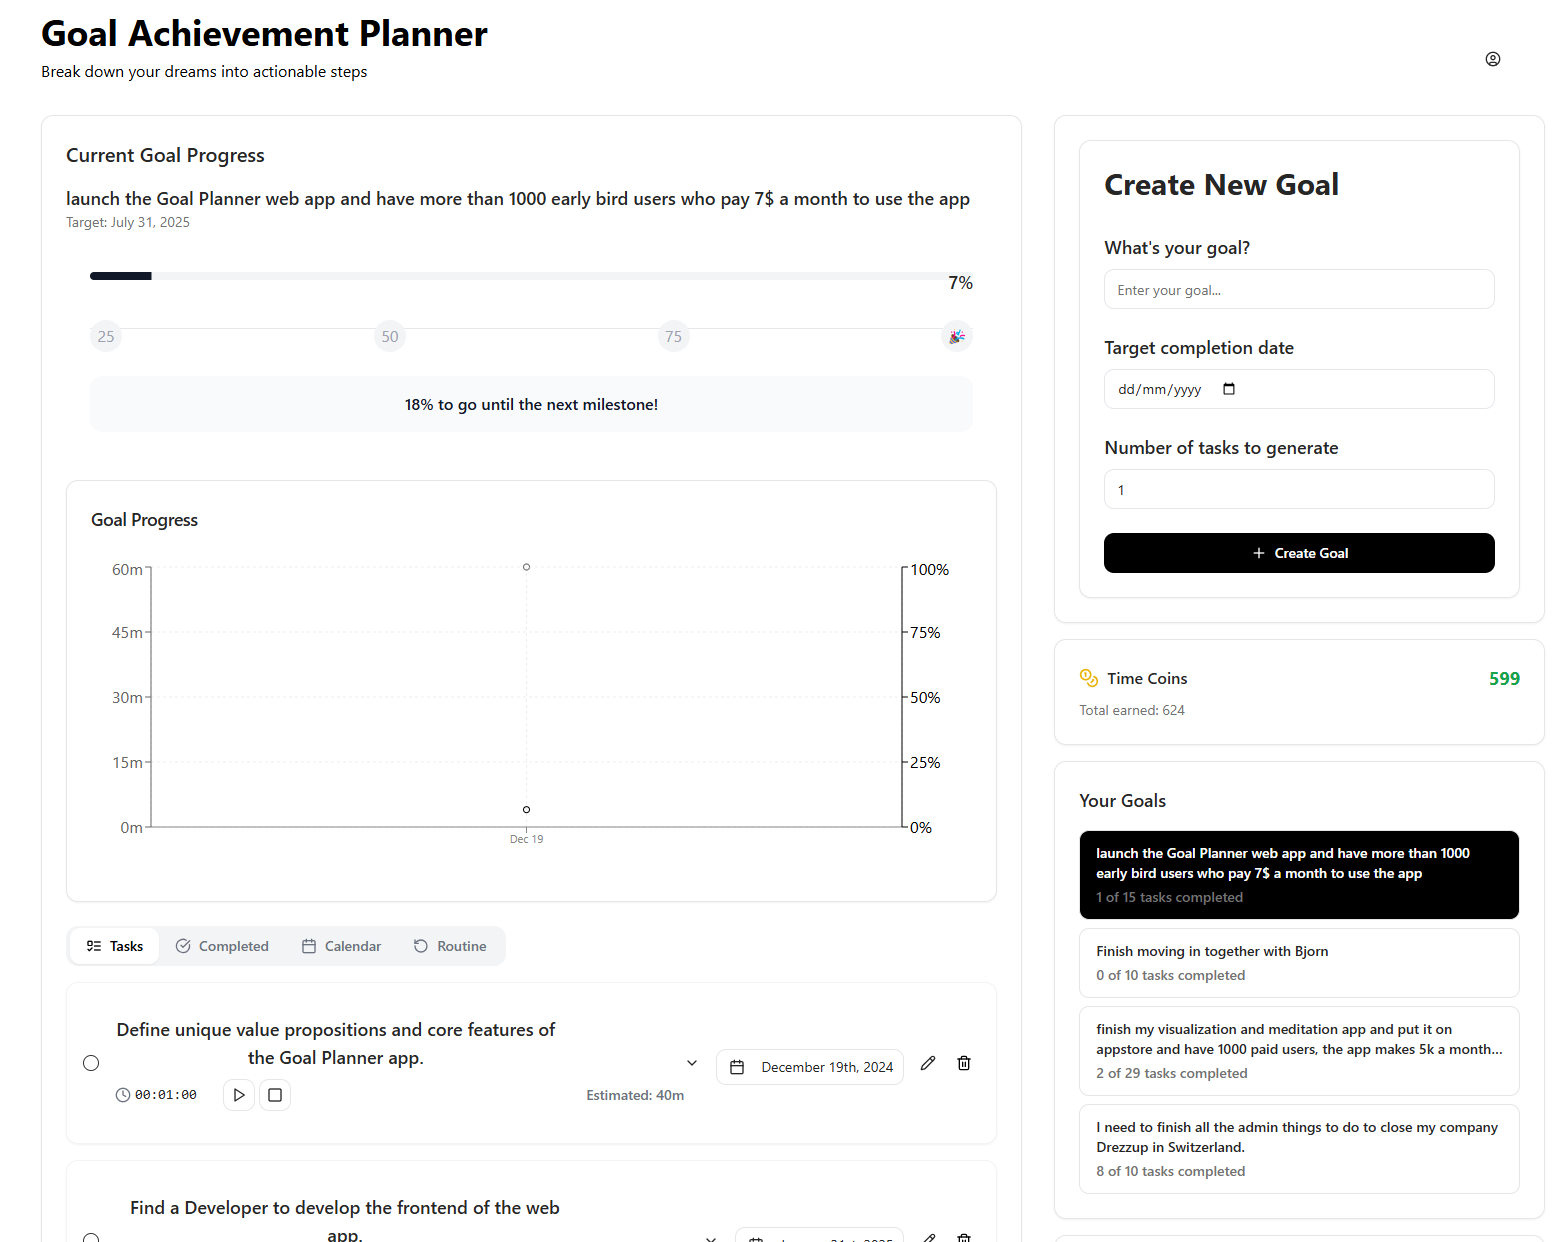
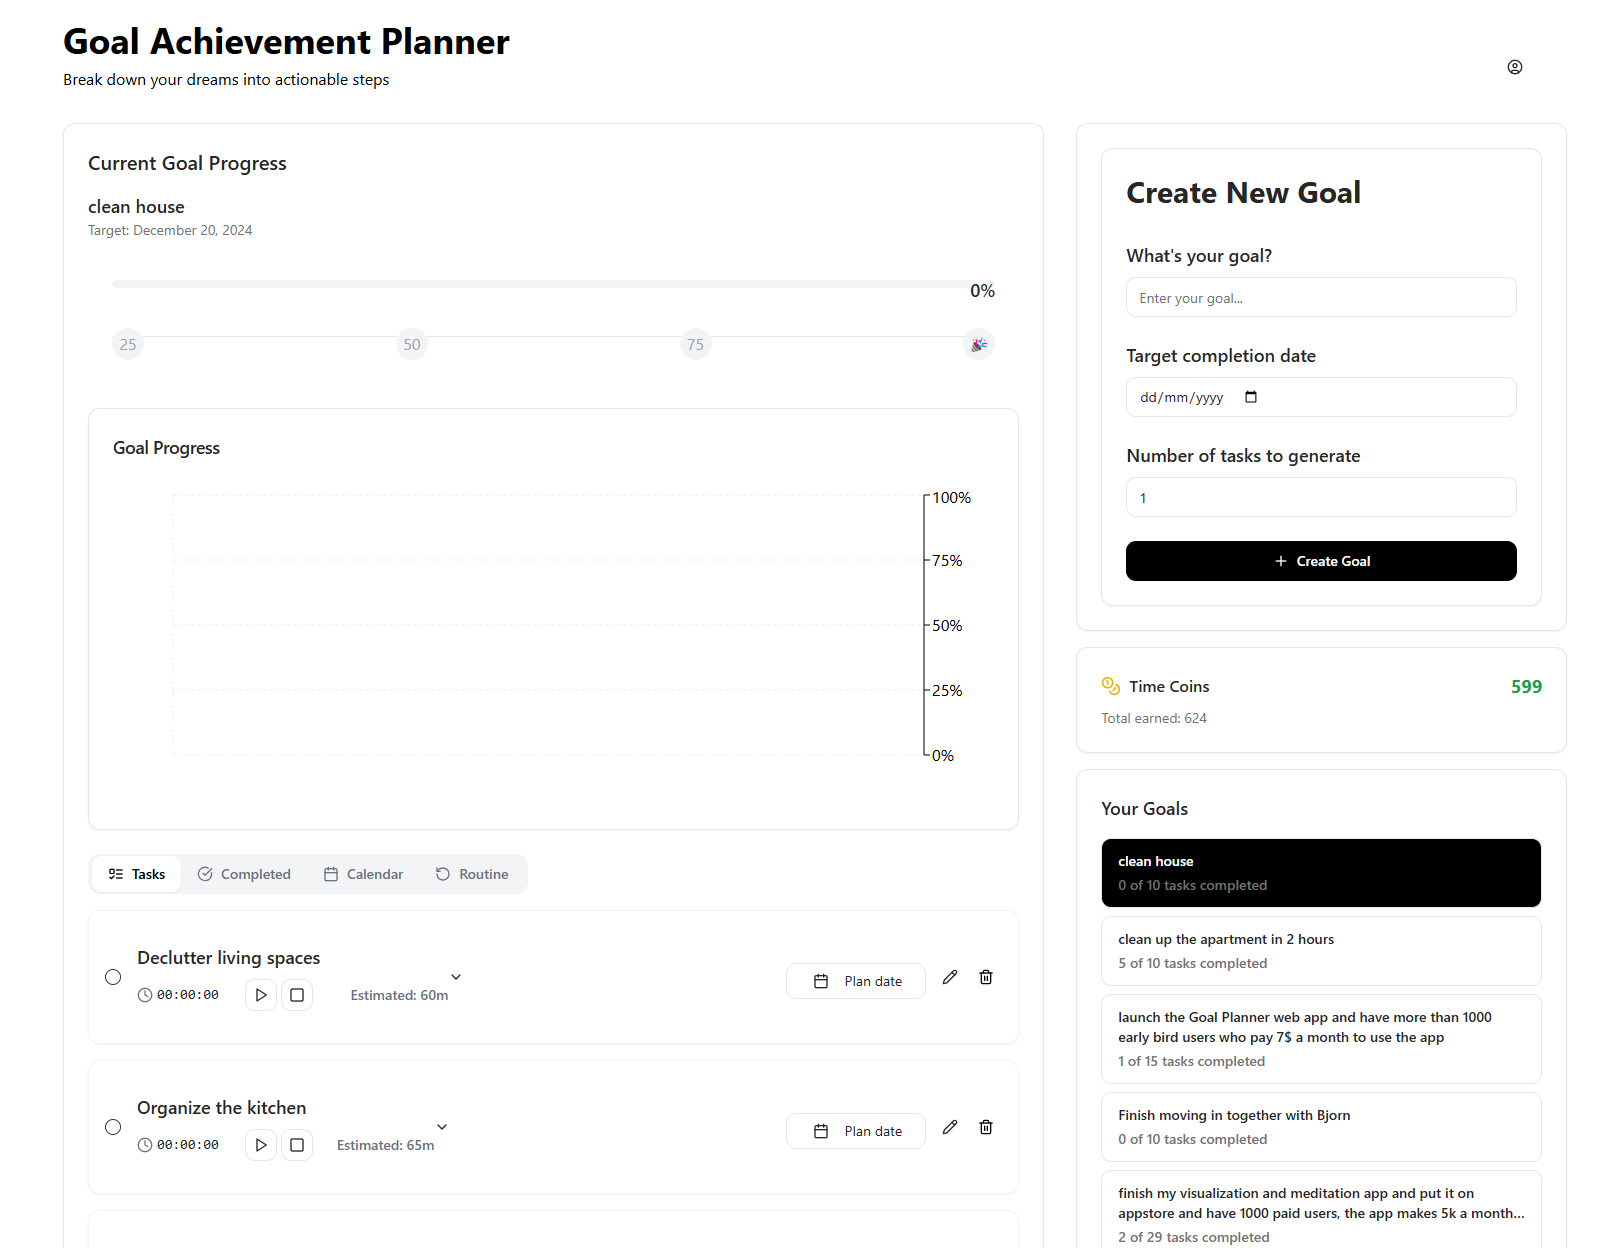
Agent query: Does the new layout match the reference image with a sidebar for goals and main content area for details?
Refactor Dashboard and GoalView pages to use a sidebar layout.

Screenshot: https://storage.googleapis.com/screenshot-production-us-central1/5cbcd047-3b39-438f-8057-f5204b920970/c0f17529-ac2c-445d-be12-6f7a2363d737.jpg

diff --git a/client/src/pages/GoalView.tsx b/client/src/pages/GoalView.tsx
@@ -19,35 +19,53 @@ export default function GoalView() {
   }
 
   return (
-    <div className="container mx-auto px-4 py-8">
-      <div className="max-w-2xl mx-auto">
-        <Link href="/">
-          <Button variant="ghost" className="mb-4">
-            <ArrowLeft className="h-4 w-4 mr-2" />
-            Back to Goals
-          </Button>
-        </Link>
+    <div className="min-h-screen flex">
+      {/* Left Sidebar */}
+      <div className="w-96 border-r p-6 bg-gray-50">
+        <div className="flex justify-between items-center mb-6">
+          <h1 className="text-xl font-semibold">Goal Planner</h1>
+          <CoinBalance />
+        </div>
 
-        <div className="space-y-6">
-          <div>
-            <h1 className="text-2xl font-semibold mb-2">{goal.title}</h1>
-            <p className="text-muted-foreground">
-              Target completion: {format(new Date(goal.targetDate), "MMMM d, yyyy")}
-            </p>
+        <CreateGoalDialog />
+        
+        <div className="mt-8 space-y-4">
+          <h2 className="text-sm font-medium text-gray-600">Your Goals</h2>
+          {goals.map((g) => (
+            <GoalCard key={g.id} goal={g} />
+          ))}
+        </div>
+      </div>
+
+      {/* Main Content Area */}
+      <div className="flex-1 p-8 bg-white">
+        <div className="max-w-3xl mx-auto space-y-8">
+          <div className="flex justify-between items-start">
+            <div>
+              <h1 className="text-2xl font-semibold mb-2">{goal.title}</h1>
+              <p className="text-muted-foreground">
+                Target completion: {format(new Date(goal.targetDate), "MMMM d, yyyy")}
+              </p>
+            </div>
+            <Link href="/">
+              <Button variant="ghost" size="sm">
+                <ArrowLeft className="h-4 w-4 mr-2" />
+                Back
+              </Button>
+            </Link>
           </div>
 
           <div className="space-y-2">
-            <h2 className="text-lg font-medium">Progress</h2>
             <GoalProgress progress={goal.progress} />
             <p className="text-sm text-muted-foreground">{goal.progress}% completed</p>
           </div>
 
-          <div className="grid gap-6 md:grid-cols-2">
-            <div className="space-y-4">
-              <h2 className="text-lg font-medium">Tasks</h2>
+          <div className="grid gap-8 grid-cols-5">
+            <div className="col-span-3">
+              <h2 className="text-lg font-medium mb-4">Tasks</h2>
               <TaskList tasks={goal.tasks || []} />
             </div>
-            <div>
+            <div className="col-span-2">
               <CoachingCard goalId={goal.id} />
             </div>
           </div>

diff --git a/client/src/pages/Dashboard.tsx b/client/src/pages/Dashboard.tsx
@@ -16,17 +16,18 @@ export default function Dashboard() {
   }
 
   return (
-    <div className="container mx-auto px-4 py-8">
-      <div className="flex justify-between items-center mb-8">
-        <h1 className="text-2xl font-semibold">Goal Achievement Planner</h1>
-        <CoinBalance />
-      </div>
+    <div className="min-h-screen flex">
+      {/* Left Sidebar */}
+      <div className="w-96 border-r p-6 bg-gray-50">
+        <div className="flex justify-between items-center mb-6">
+          <h1 className="text-xl font-semibold">Goal Planner</h1>
+          <CoinBalance />
+        </div>
 
-      <div className="max-w-md mx-auto">
         <CreateGoalDialog />
         
         <div className="mt-8 space-y-4">
-          <h2 className="text-lg font-medium">Your Goals</h2>
+          <h2 className="text-sm font-medium text-gray-600">Your Goals</h2>
           {goals.length === 0 ? (
             <p className="text-muted-foreground text-sm">
               No goals yet. Create your first goal to get started!
@@ -36,6 +37,16 @@ export default function Dashboard() {
               <GoalCard key={goal.id} goal={goal} />
             ))
           )}
+        </div>
+      </div>
+
+      {/* Main Content Area */}
+      <div className="flex-1 p-8 bg-white">
+        {/* This area will show the selected goal's details */}
+        <div className="max-w-3xl mx-auto">
+          <p className="text-muted-foreground text-sm">
+            Select a goal from the sidebar to view details
+          </p>
         </div>
       </div>
     </div>
